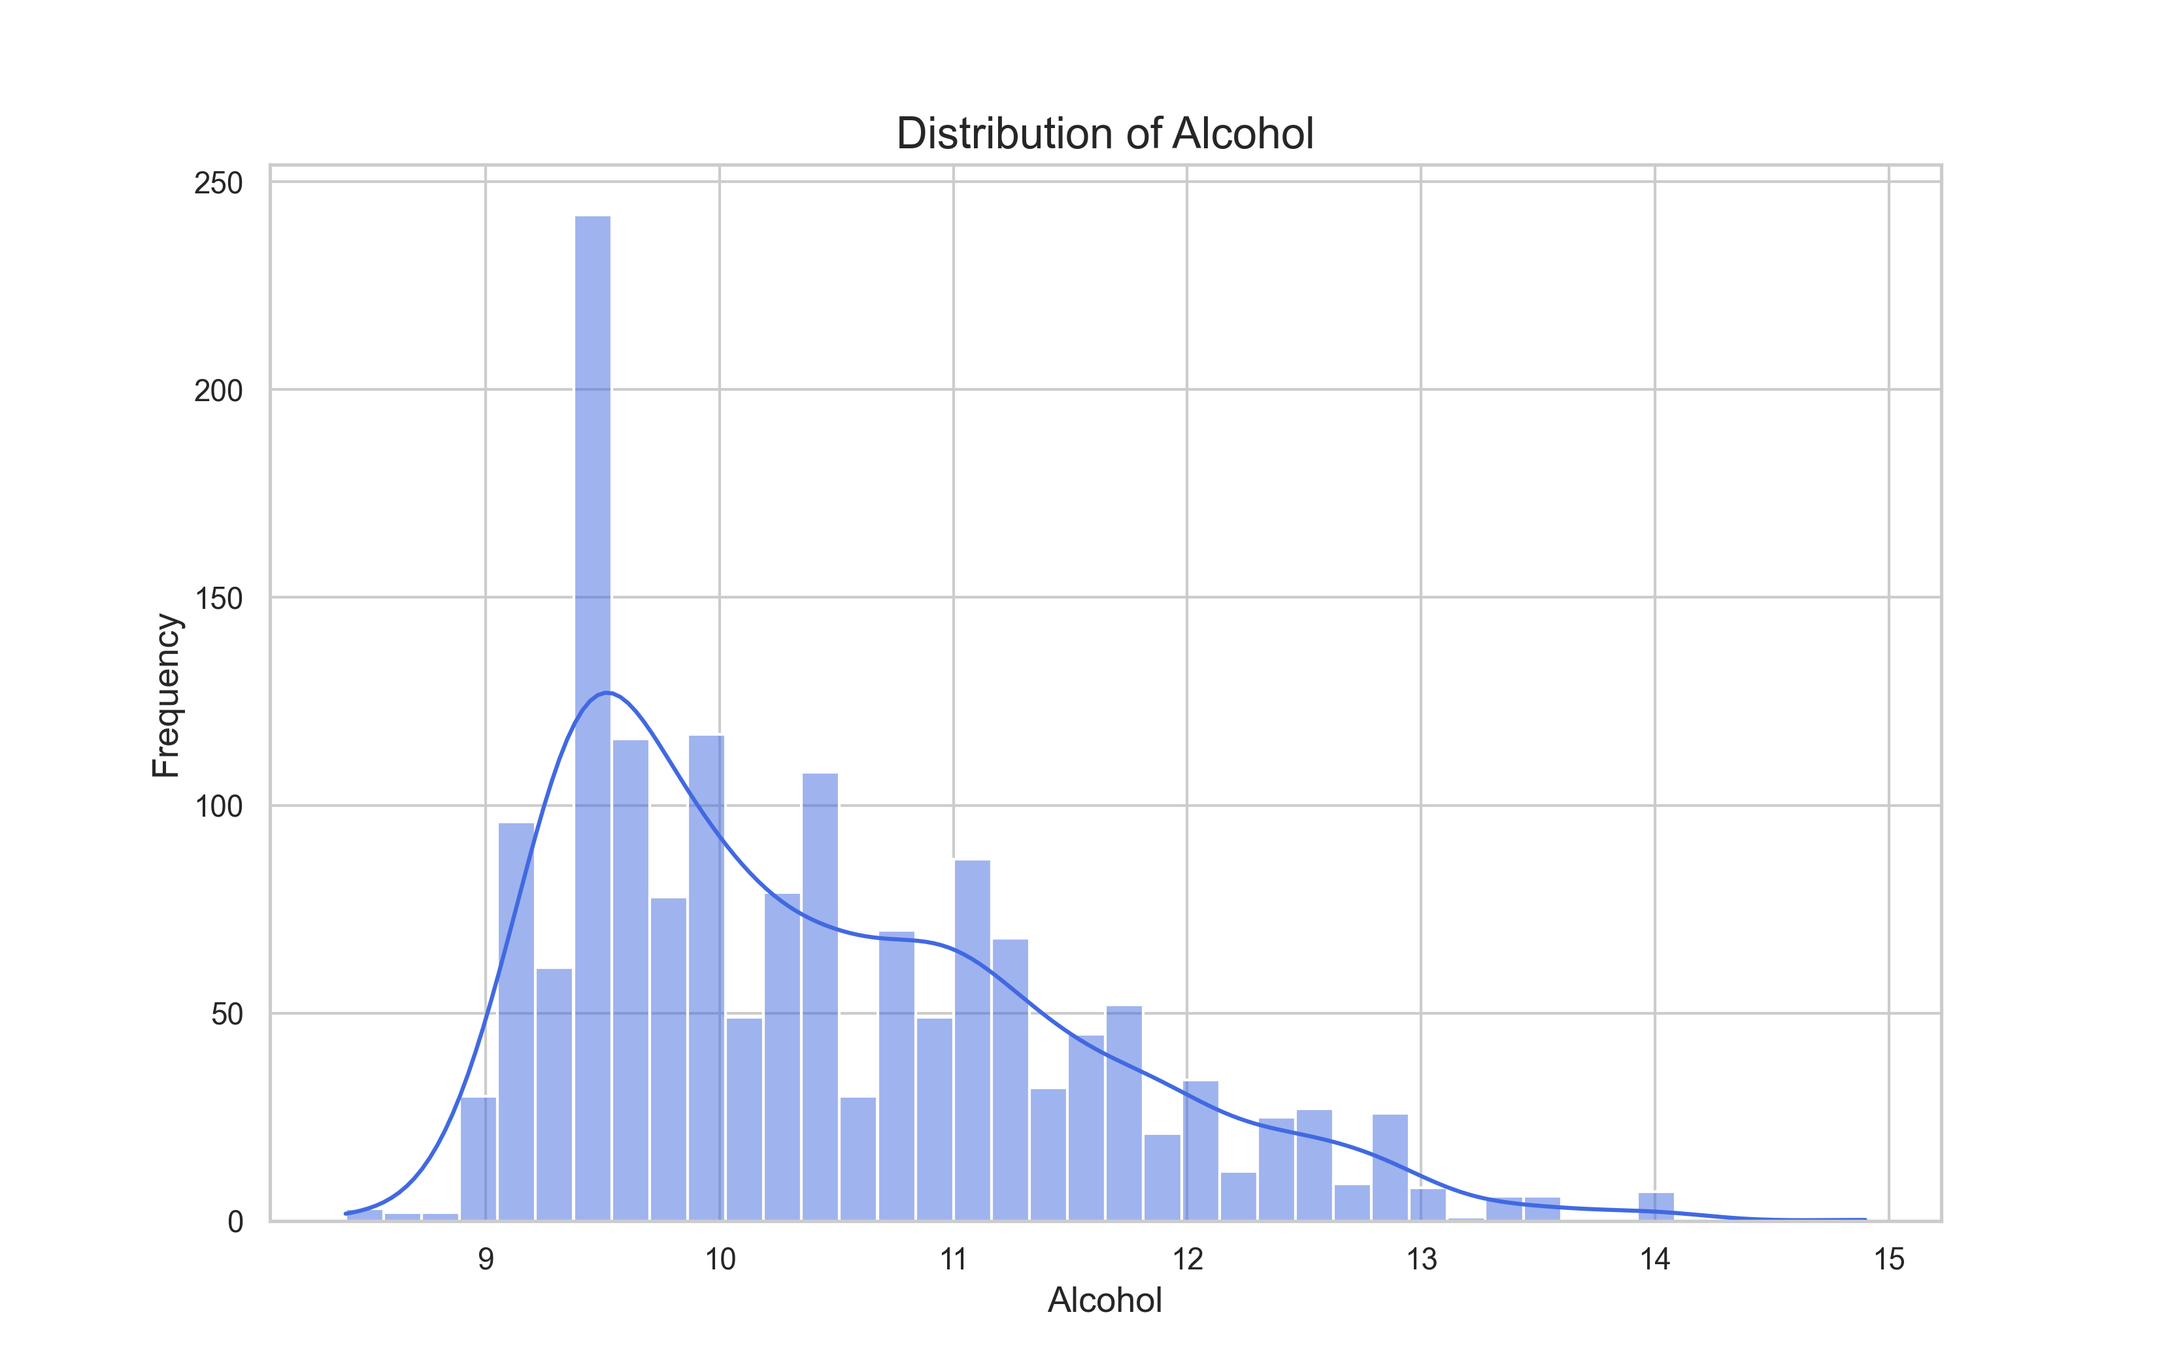
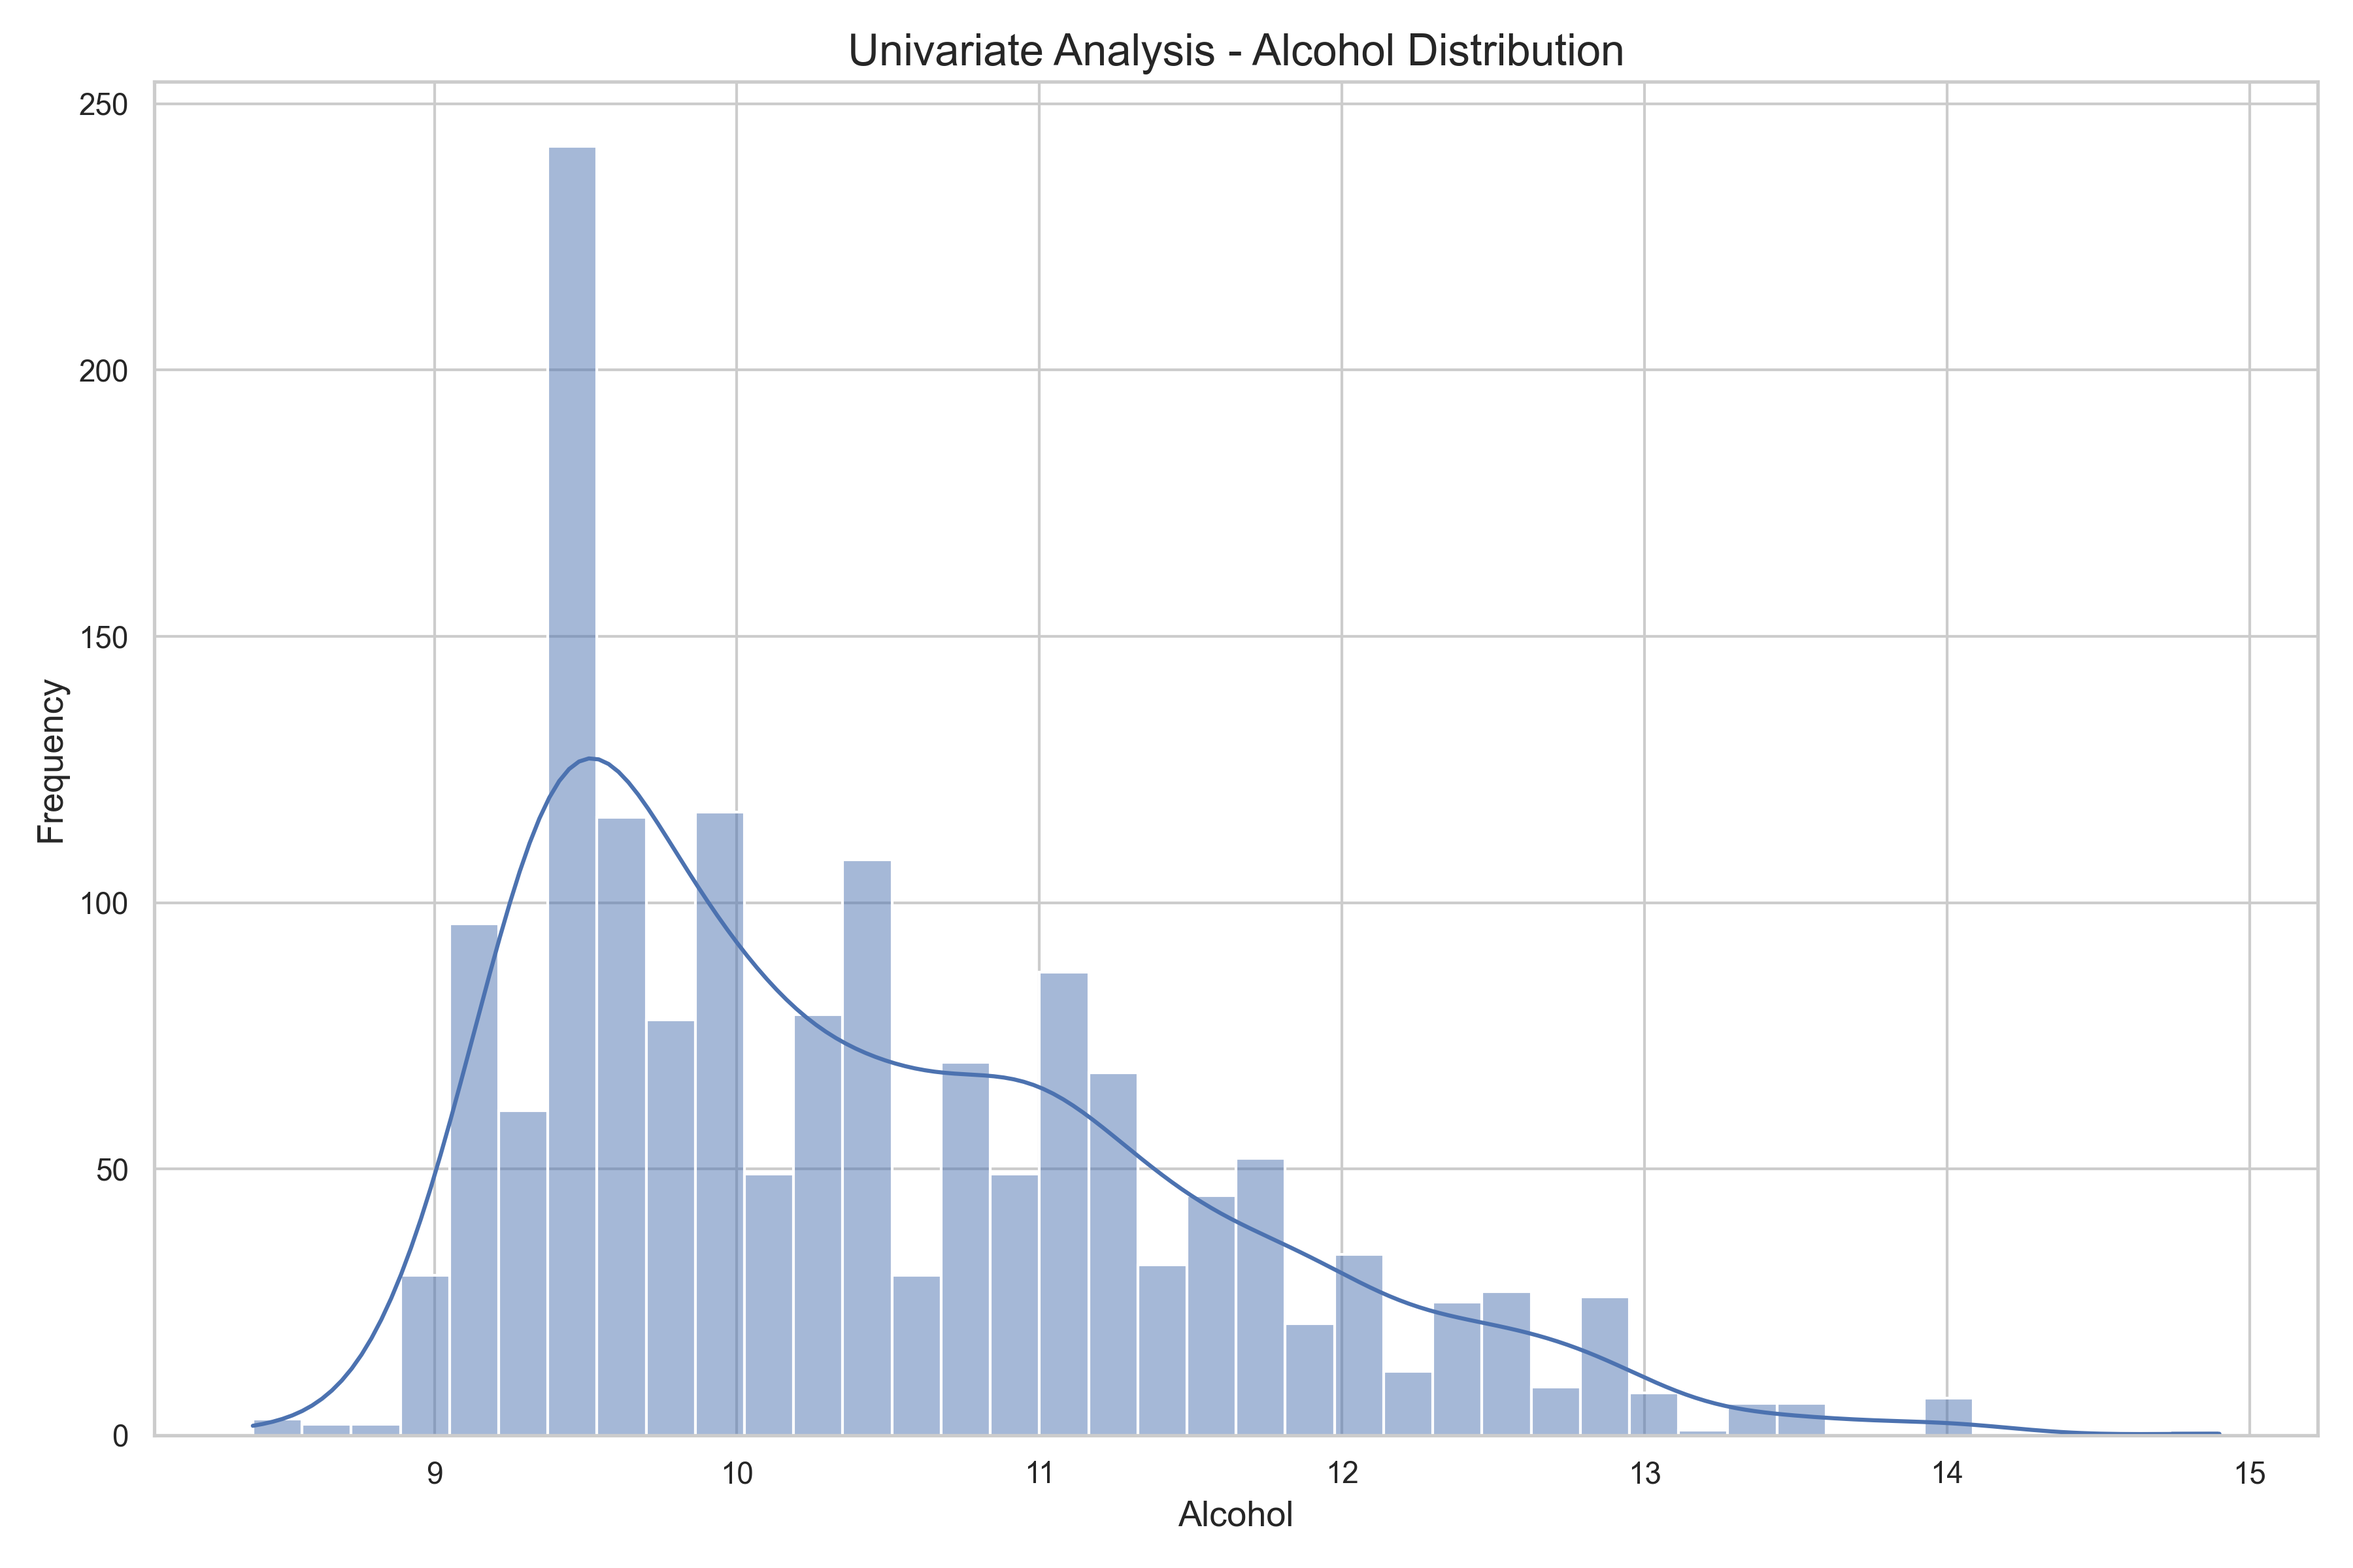
Updated project files and regenerated graphs

diff --git a/PW3_Wine_Visualization.py b/PW3_Wine_Visualization.py
@@ -4,23 +4,25 @@ import numpy as np
 import pandas as pd
 import matplotlib.pyplot as plt
 import seaborn as sns
+
 from pandas.plotting import parallel_coordinates
+from sklearn.preprocessing import MinMaxScaler
 from mpl_toolkits.mplot3d import Axes3D
 
-# ============================================================
+# =============================
 # SETTINGS
-# ============================================================
+# =============================
 
 np.random.seed(42)
-
 sns.set_theme(style="whitegrid")
-plt.rcParams["figure.figsize"] = (11, 7)
+
+plt.rcParams["figure.figsize"] = (12, 8)
 plt.rcParams["axes.titlesize"] = 16
 plt.rcParams["axes.labelsize"] = 13
 
-# ============================================================
+# =============================
 # LOAD DATASET
-# ============================================================
+# =============================
 
 file_name = "winequality-red.csv"
 url = "https://archive.ics.uci.edu/ml/machine-learning-databases/wine-quality/winequality-red.csv"
@@ -35,9 +37,16 @@ print("\nDataset Loaded Successfully\n")
 print(df.head())
 print(df.info())
 
-# ============================================================
-# QUALITY MEANINGFUL LABELS
-# ============================================================
+# =============================
+# SAVE FOLDER
+# =============================
+
+save_folder = "saved_graphs"
+os.makedirs(save_folder, exist_ok=True)
+
+# =============================
+# QUALITY LABELS
+# =============================
 
 def quality_label(q):
     if q <= 3:
@@ -58,104 +67,109 @@ df["quality_label"] = df["quality"].apply(quality_label)
 quality_order = ["Very Poor", "Poor", "Average",
                  "Good", "Very Good", "Excellent"]
 
-# ============================================================
-# CREATE SAVE FOLDER
-# ============================================================
+# =============================
+# FUNCTION TO DISPLAY + SAVE
+# =============================
 
-save_folder = "saved_graphs"
-os.makedirs(save_folder, exist_ok=True)
-
-figures = []
-
-def store_fig(name):
-    fig = plt.gcf()
-    figures.append((fig, name))
+def show_and_save(fig, filename):
+    fig.tight_layout()
+    path = os.path.join(save_folder, filename)
+    fig.savefig(path, dpi=300)
     plt.show()
+    plt.close(fig)
 
-# ============================================================
-# UNIVARIATE ANALYSIS
-# ============================================================
+# =============================
+# 1. UNIVARIATE ANALYSIS
+# =============================
 
-plt.figure()
-sns.histplot(df["alcohol"], bins=40, kde=True, color="royalblue")
-plt.title("Distribution of Alcohol")
+# Alcohol Distribution
+fig1 = plt.figure()
+sns.histplot(df["alcohol"], bins=40, kde=True)
+plt.title("Univariate Analysis - Alcohol Distribution")
 plt.xlabel("Alcohol")
 plt.ylabel("Frequency")
-store_fig("01_alcohol_distribution.png")
+show_and_save(fig1, "01_alcohol_distribution.png")
 
-plt.figure()
+# Quality Distribution
+fig2 = plt.figure()
 sns.countplot(
     x="quality_label",
     data=df,
     order=quality_order,
     hue="quality_label",
-    legend=False,
-    palette="viridis"
+    legend=False
 )
-
 plt.xticks(rotation=30)
-plt.title("Wine Quality Distribution (Meaningful Categories)")
+plt.title("Univariate Analysis - Wine Quality Distribution")
 plt.xlabel("Quality Category")
 plt.ylabel("Count")
-store_fig("02_quality_distribution.png")
+show_and_save(fig2, "02_quality_distribution.png")
 
-# ============================================================
-# BIVARIATE ANALYSIS
-# ============================================================
+# =============================
+# 2. BIVARIATE ANALYSIS
+# =============================
 
-plt.figure()
-sns.scatterplot(
-    x="alcohol",
-    y="density",
-    data=df,
-    alpha=0.6
-)
-
-plt.title("Alcohol vs Density")
+# Alcohol vs Density
+fig3 = plt.figure()
+sns.scatterplot(x="alcohol", y="density", data=df)
+plt.title("Bivariate Analysis - Alcohol vs Density")
 plt.xlabel("Alcohol")
 plt.ylabel("Density")
-store_fig("03_alcohol_vs_density.png")
+show_and_save(fig3, "03_alcohol_vs_density.png")
 
-plt.figure()
+# Boxplot
+fig4 = plt.figure()
 sns.boxplot(
     x="quality_label",
     y="alcohol",
     data=df,
     order=quality_order,
     hue="quality_label",
-    legend=False,
-    palette="Set2"
+    legend=False
 )
-
 plt.xticks(rotation=30)
-plt.title("Alcohol vs Quality (Boxplot)")
-plt.xlabel("Quality Category")
+plt.title("Alcohol Distribution Across Quality (Boxplot)")
+plt.xlabel("Quality")
 plt.ylabel("Alcohol")
-store_fig("04_alcohol_vs_quality_boxplot.png")
+show_and_save(fig4, "04_alcohol_boxplot.png")
 
-# ============================================================
-# CORRELATION HEATMAP
-# ============================================================
+# Violin Plot
+fig5 = plt.figure()
+sns.violinplot(
+    x="quality_label",
+    y="alcohol",
+    data=df,
+    order=quality_order,
+    hue="quality_label",
+    legend=False
+)
+plt.xticks(rotation=30)
+plt.title("Alcohol Distribution Across Quality (Violin Plot)")
+plt.xlabel("Quality")
+plt.ylabel("Alcohol")
+show_and_save(fig5, "05_alcohol_violin.png")
 
-plt.figure(figsize=(14, 10))
-
-corr = df.corr(numeric_only=True)
-
-sns.heatmap(
-    corr,
-    annot=True,
-    fmt=".2f",
-    cmap="coolwarm",
-    linewidths=0.5
+# Joint Plot
+joint = sns.jointplot(
+    x="alcohol",
+    y="quality",
+    data=df,
+    kind="scatter",
+    height=8
 )
 
-plt.title("Feature Correlation Heatmap")
-store_fig("05_correlation_heatmap.png")
+joint.fig.suptitle("Joint Plot - Alcohol vs Quality", y=1.02)
+joint.savefig(os.path.join(save_folder, "06_joint_plot_alcohol_quality.png"))
+plt.show()
+plt.close(joint.fig)
 
-# ============================================================
-# PARALLEL COORDINATES
-# ============================================================
+print("Joint plot saved.\n")
 
+# =============================
+# 3. MULTIVARIATE ANALYSIS
+# =============================
+
+# Parallel Coordinates
 features = [
     "fixed acidity",
     "volatile acidity",
@@ -168,21 +182,30 @@ features = [
 df_parallel = df[features].copy()
 df_parallel["quality"] = df_parallel["quality"].astype(str)
 
-plt.figure(figsize=(14, 8))
-sample_df = df_parallel.sample(400, random_state=42)
+scaler = MinMaxScaler()
 
-parallel_coordinates(sample_df, "quality")
+numeric_cols = [
+    "fixed acidity",
+    "volatile acidity",
+    "citric acid",
+    "residual sugar",
+    "alcohol"
+]
 
-plt.title("Parallel Coordinates Plot")
+df_parallel[numeric_cols] = scaler.fit_transform(df_parallel[numeric_cols])
+
+sample_df = df_parallel.sample(500, random_state=42)
+
+fig6 = plt.figure(figsize=(16, 9))
+parallel_coordinates(sample_df, "quality", colormap=plt.get_cmap("tab10"))
+plt.title("Multivariate Analysis - Parallel Coordinates")
 plt.xticks(rotation=45)
-store_fig("06_parallel_coordinates.png")
+plt.legend(title="Quality")
+show_and_save(fig6, "07_parallel_coordinates.png")
 
-# ================
-# 3D VISUALIZATION
-# ================
-
-fig = plt.figure(figsize=(14, 10))
-ax = fig.add_subplot(111, projection="3d")
+# 3D Scatter Plot
+fig7 = plt.figure(figsize=(14, 10))
+ax = fig7.add_subplot(111, projection="3d")
 
 unique_labels = df["quality_label"].unique()
 colors = sns.color_palette("tab10", len(unique_labels))
@@ -203,72 +226,49 @@ for label, color in zip(unique_labels, colors):
 ax.set_xlabel("Alcohol")
 ax.set_ylabel("Density")
 ax.set_zlabel("pH")
-ax.set_title("3D Scatter Plot (Quality Categories)")
-
+ax.set_title("Multivariate Analysis - 3D Scatter (Alcohol, Density, pH)")
 ax.legend(title="Quality Category")
 
-plt.tight_layout()
-plt.show()
+show_and_save(fig7, "08_3d_scatter.png")
 
-figures.append((fig, "07_3d_scatter.png"))
+# =============================
+# Alcohol Distribution Across Quality
+# =============================
 
-# ============================================================
-# ALCOHOL DISTRIBUTION ACROSS QUALITY
-# ============================================================
-
-plt.figure()
+fig8 = plt.figure()
 
 sns.histplot(
     data=df,
     x="alcohol",
     hue="quality_label",
     multiple="stack",
-    bins=40,
-    palette="tab10"
+    bins=40
 )
 
-plt.title("Alcohol Distribution Across Quality Categories")
+plt.title("Alcohol Distribution Across Quality Levels")
 plt.xlabel("Alcohol")
 plt.ylabel("Count")
 
-store_fig("08_alcohol_distribution_quality.png")
+show_and_save(fig8, "09_alcohol_distribution_quality.png")
 
-# ============================================================
-# SAVE ALL GRAPHS SILENTLY
-# ============================================================
+# =============================
+# FINAL OUTPUT (Exactly Like You Want)
+# =============================
 
-for fig, name in figures:
-    path = os.path.join(save_folder, name)
-    fig.savefig(path, dpi=300)
-    plt.close(fig)
-
-# ============================================================
-# FINAL REPORT
-# ============================================================
-
-print("\n")
-print("=" * 70)
+print("\n====================================")
 print("FINAL REPORT")
-print("=" * 70)
+print("====================================")
 
 print("""
-✔ All plots generated successfully.
-✔ Quality converted into meaningful categories.
-✔ 3D plot improved with category-based coloring.
+✔ All required graphs are included:
+  - Univariate (Continuous + Categorical)
+  - Bivariate (Scatter + Boxplot + Violin + Joint Plot)
+  - Multivariate (Parallel Coordinates + 3D Scatter)
+  - Alcohol Distribution Across Quality
+
 ✔ Graphs saved inside 'saved_graphs' folder.
 
-Quality Meaning:
-- Very Poor  -> Score ≤ 3
-- Poor       -> Score 4
-- Average    -> Score 5
-- Good       -> Score 6
-- Very Good  -> Score 7
-- Excellent  -> Score 8
-
-Key Insights:
-1. Alcohol negatively correlates with density.
-2. Higher alcohol wines mostly fall into Good / Very Good.
-3. Most wines belong to Average and Good categories.
+Project Status: COMPLETE ✅
 """)
 
-print("=" * 70)
+print("====================================")
